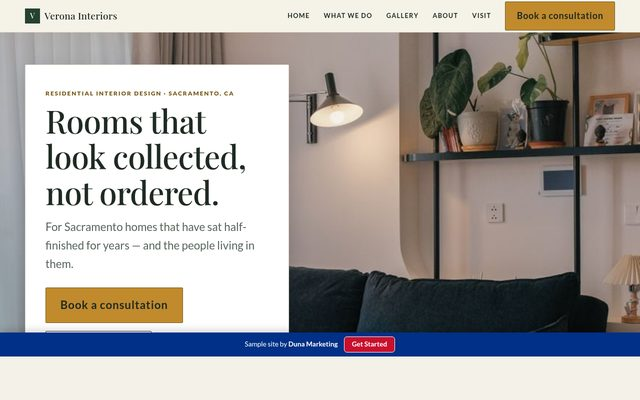
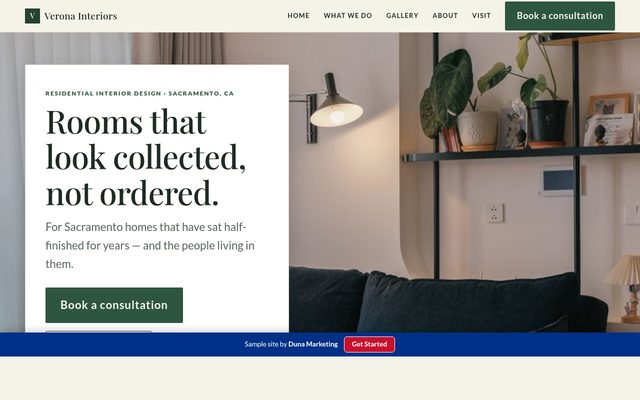
Verona: tonal forest-green CTAs replace the gold (owner's pick of three)
Claude-Session: https://claude.ai/code/session_01D7xGmYAXgvAihBMPCkH7ye

Changed region(s): [[0.0625, 0.72, 0.3125, 0.81], [0.7812, 0.0, 0.9688, 0.09], [0.0625, 0.21, 0.3438, 0.24]]

diff --git a/portfolio/verona-interiors/css/tokens.css b/portfolio/verona-interiors/css/tokens.css
@@ -10,10 +10,10 @@
   --line: #DCD6C2;             /* hairlines */
   --brand: #24422F;            /* 30: plum band, wordmark mark */
   --on-brand: #F4F1E8;         /* on the plum band */
-  --accent: #C08A2D;           /* 10: the one accent — antique brass. Buttons only. */
-  --accent-hover: #A67624;     /* lighter brass on hover; on-accent ink still 8.37:1 */
-  --on-accent: #1E2A22;        /* dark ink on brass — 7.48:1. The accent is BRIGHT; never invert this. */
-  --accent-ink: #79581A;       /* darker brass for small text (raw --accent is 1.82:1 on --bg) */
+  --accent: #2E5540;           /* 10: the one accent — antique brass. Buttons only. */
+  --accent-hover: #24422F;     /* lighter brass on hover; on-accent ink still 8.37:1 */
+  --on-accent: #F4F1E8;        /* dark ink on brass — 7.48:1. The accent is BRIGHT; never invert this. */
+  --accent-ink: #2E5540;       /* darker brass for small text (raw --accent is 1.82:1 on --bg) */
 
   /* --- derived (site-specific; no assigned token altered) --- */
   --accent-ink-alt: #6B4A07;    /* the brass step for small text on --bg-alt, where
